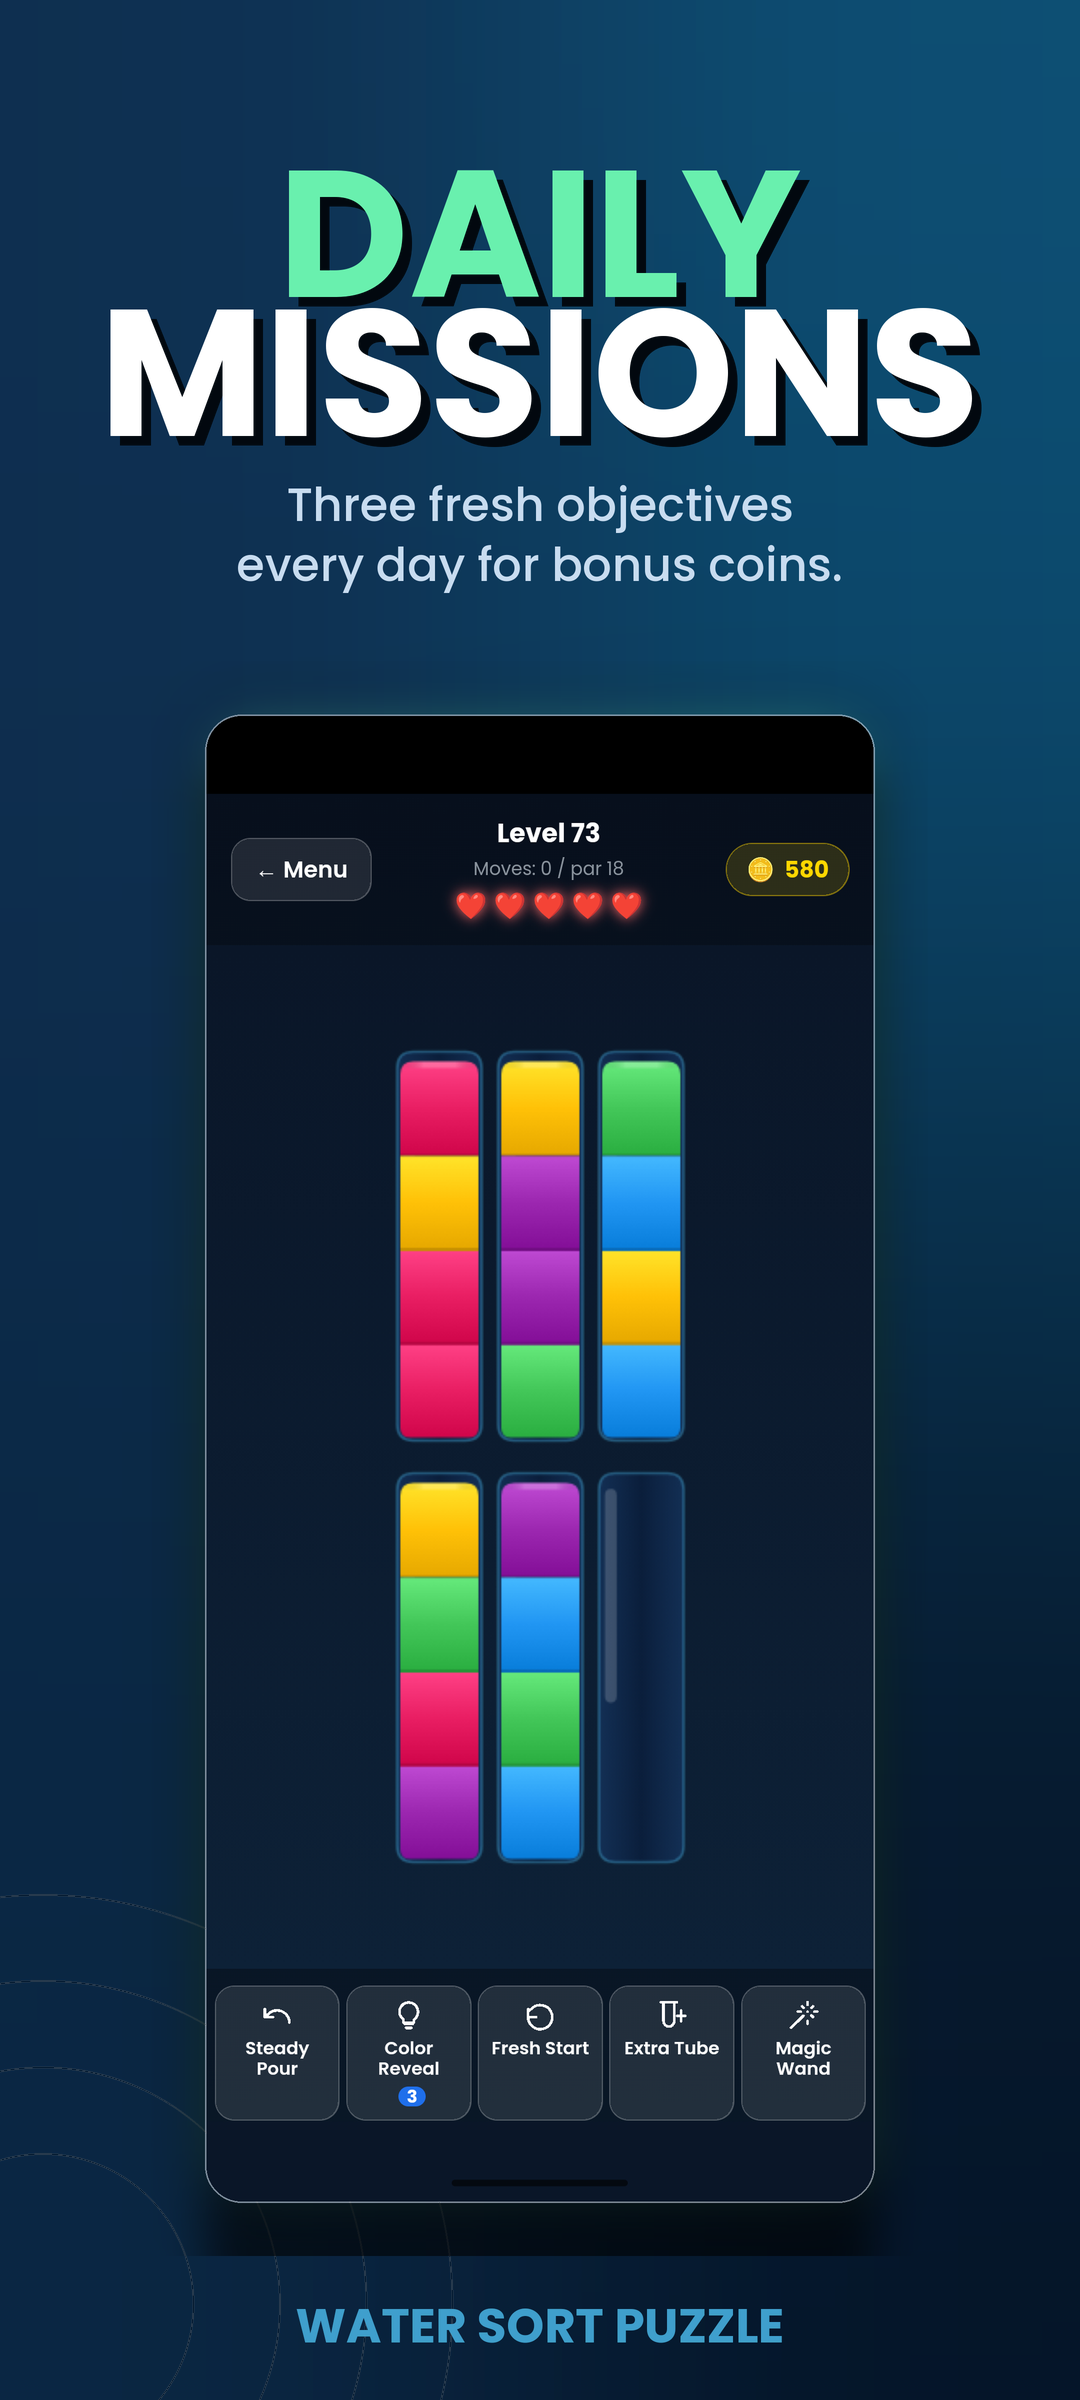
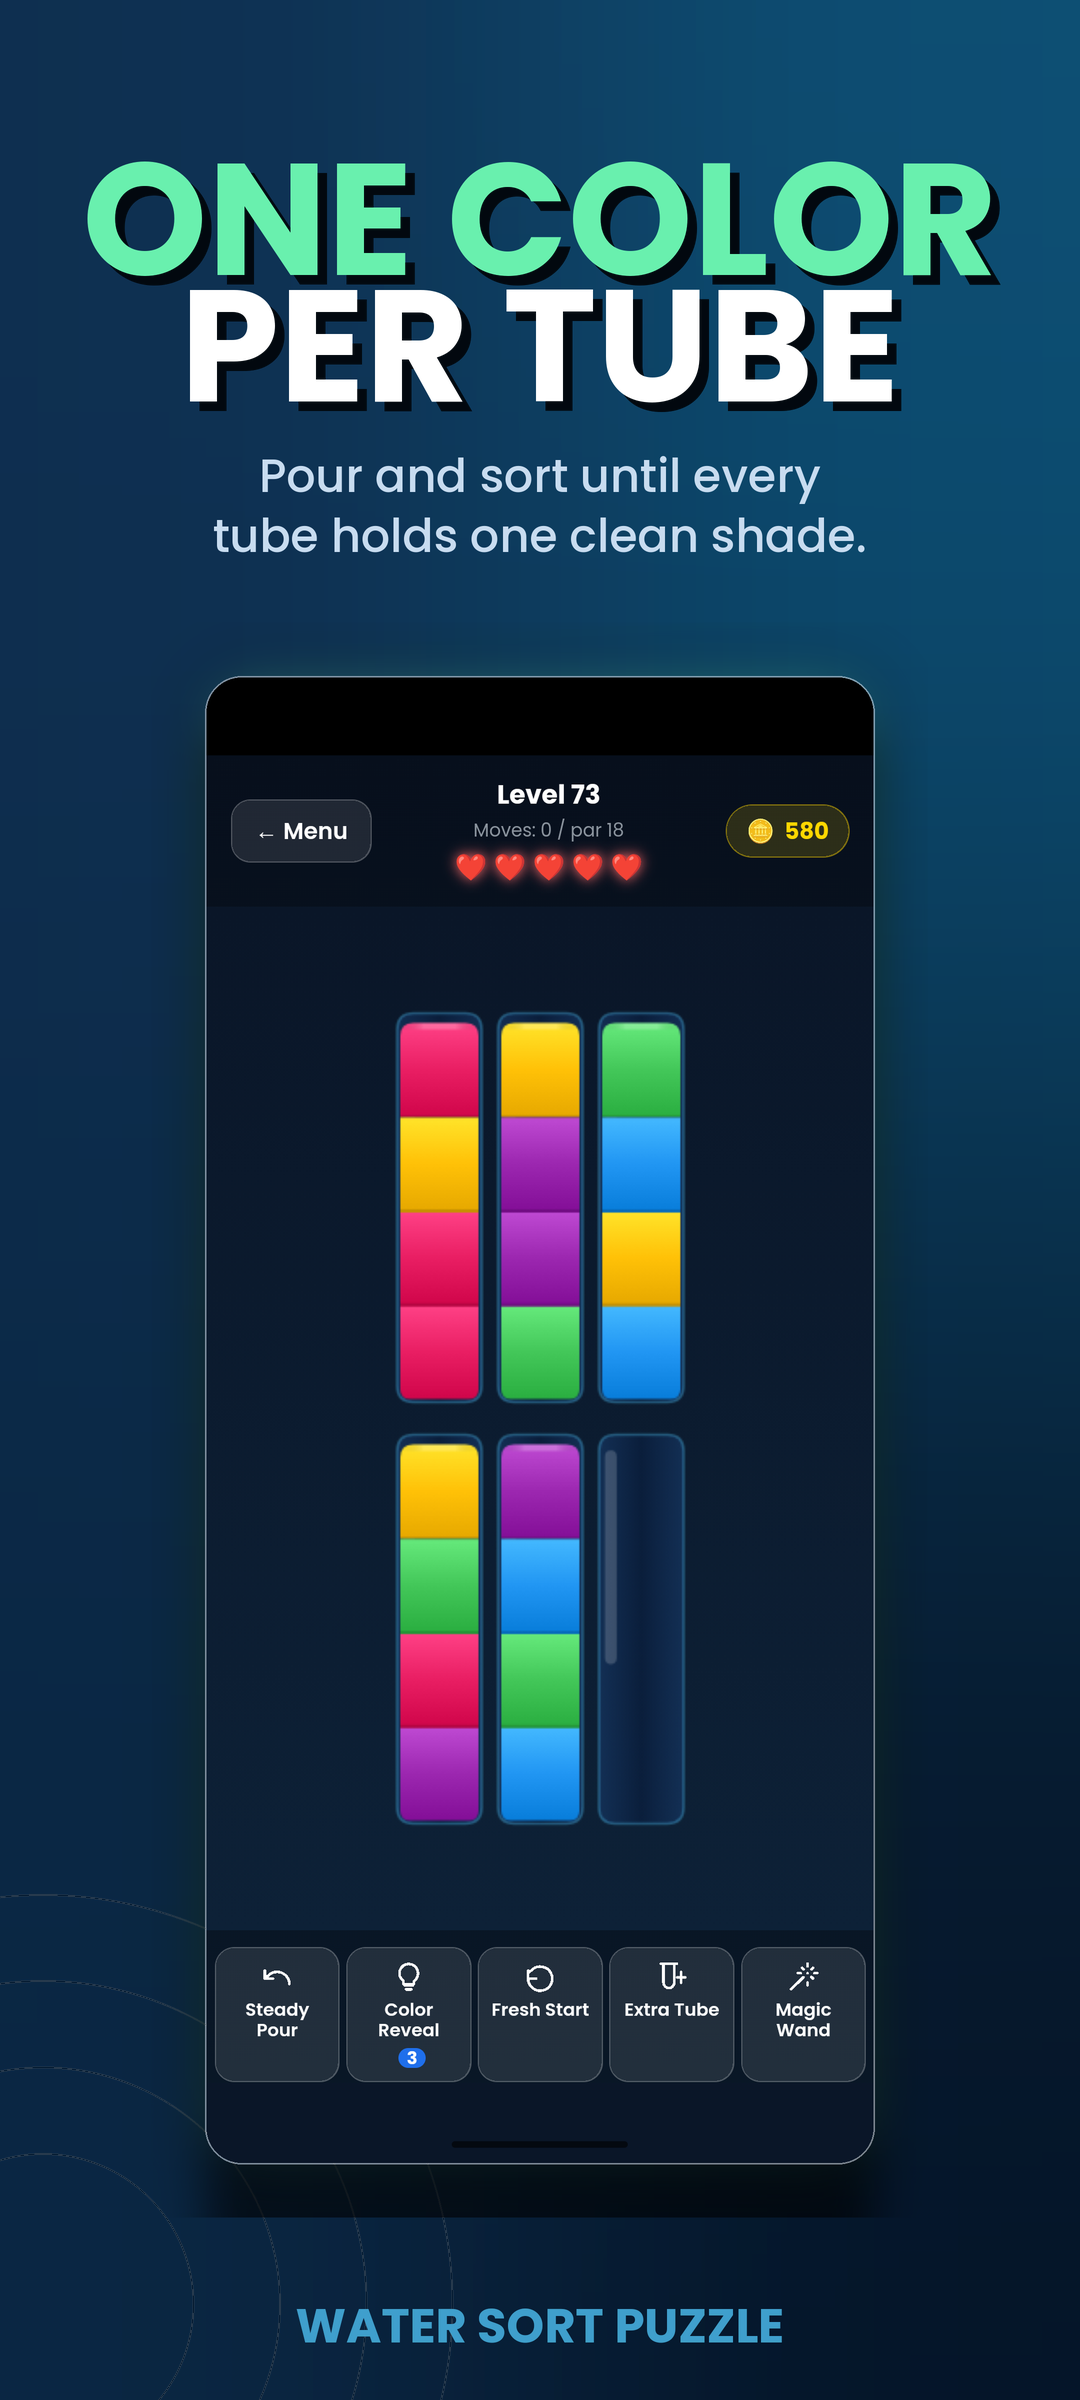
Audit 2026-05-15 Part A (A1, A3, A4) — WaterSortPuzzle
- A1: PRODUCTS array unlimited_undos price string $3.99 -> $4.99 to
  match iaps.json price_usd 4.99 — the shop UI was quoting below what
  Play actually charges.
- A3: phone slot 06 + tablet_7 slot 06 re-headlined off the Daily-
  Missions claim ("ONE COLOR PER TUBE" / "SORT EVERY LAST TUBE") —
  the captured image is gameplay, not the Missions overlay. Re-capture
  (path 1) needs an emulator/AVD not available here, so path 2 was
  taken. Affected slots re-wrapped.
- A4: filled the empty Name column in RELEASE_HANDOFF.md Step 3 IAP
  table (13 rows) from iaps.json product names.

A2 (Nonogram solvability) is held back: the specified buildLevels
retry loop adds ~13s of blocking work at startup on this machine
(verified via node — 0/350 fallbacks, but 12.1s for the 200 20x20
levels). Pending a decision on approach.

diff --git a/WaterSortPuzzle/android/app/src/main/assets/game.html b/WaterSortPuzzle/android/app/src/main/assets/game.html
@@ -2126,7 +2126,7 @@ const PRODUCTS = [
   { id: 'coins_large',             name: '800 Coins',            desc: 'Large coin pack',           price: '$4.99',  emoji: '💰',  type: 'real' },
   { id: 'coins_mega',              name: '2000 Coins',           desc: 'Best value coin pack',      price: '$9.99',  emoji: '💎',  type: 'real' },
   { id: 'hint_pack',               name: 'Hint Pack',            desc: '10 hints when stuck',      price: '$1.99',  emoji: '💡',  type: 'real' },
-  { id: 'unlimited_undos',         name: 'Unlimited Undos',      desc: 'Never run out of undos',    price: '$3.99',  emoji: '↩',   type: 'real' },
+  { id: 'unlimited_undos',         name: 'Unlimited Undos',      desc: 'Never run out of undos',    price: '$4.99',  emoji: '↩',   type: 'real' },
   { id: 'five_lives',              name: '5 Lives',              desc: 'Restore 5 lives instantly', price: '$0.99',  emoji: '💝',  type: 'real' },
   { id: 'unlimited_lives_1h',      name: 'Unlimited Lives 1h',   desc: 'Play freely for 1 hour',   price: '$1.99',  emoji: '⏱',  type: 'real' },
   { id: 'unlimited_lives_forever', name: 'Unlimited Lives ∞',    desc: 'Never lose a life again',  price: '$4.99',  emoji: '♾',  type: 'real' },

diff --git a/WaterSortPuzzle/RELEASE_HANDOFF.md b/WaterSortPuzzle/RELEASE_HANDOFF.md
@@ -42,19 +42,19 @@ Click **Create product** for each row below. Activate after creating
 
 | Product ID | Type | Name | Default price |
 |---|---|---|---|
-| `remove_ads` | Managed |  | $2.99 |
-| `coins_small` | Managed |  | $0.99 |
-| `coins_large` | Managed |  | $4.99 |
-| `coins_medium` | Managed |  | $2.99 |
-| `coins_mega` | Managed |  | $9.99 |
-| `five_lives` | Managed |  | $0.99 |
-| `unlimited_lives_1h` | Managed |  | $1.99 |
-| `unlimited_lives_forever` | Managed |  | $4.99 |
-| `unlimited_undos` | Managed |  | $4.99 |
-| `hint_pack` | Managed |  | $1.99 |
-| `starter_pack` | Managed |  | $0.99 |
-| `season_pass_monthly` | Subscription |  | $4.99/mo |
-| `weekly_pass` | Subscription |  | $1.99/wk |
+| `remove_ads` | Managed | Remove Ads | $2.99 |
+| `coins_small` | Managed | 100 Coins | $0.99 |
+| `coins_large` | Managed | 800 Coins | $4.99 |
+| `coins_medium` | Managed | 400 Coins | $2.99 |
+| `coins_mega` | Managed | 2000 Coins | $9.99 |
+| `five_lives` | Managed | 5 Lives | $0.99 |
+| `unlimited_lives_1h` | Managed | 1 Hour Unlimited Lives | $1.99 |
+| `unlimited_lives_forever` | Managed | Unlimited Lives Forever | $4.99 |
+| `unlimited_undos` | Managed | Unlimited Undos | $4.99 |
+| `hint_pack` | Managed | Hint Pack | $1.99 |
+| `starter_pack` | Managed | Starter Pack | $0.99 |
+| `season_pass_monthly` | Subscription | Season Pass | $4.99/mo |
+| `weekly_pass` | Subscription | Weekly Pass | $1.99/wk |
 
 ---
 
